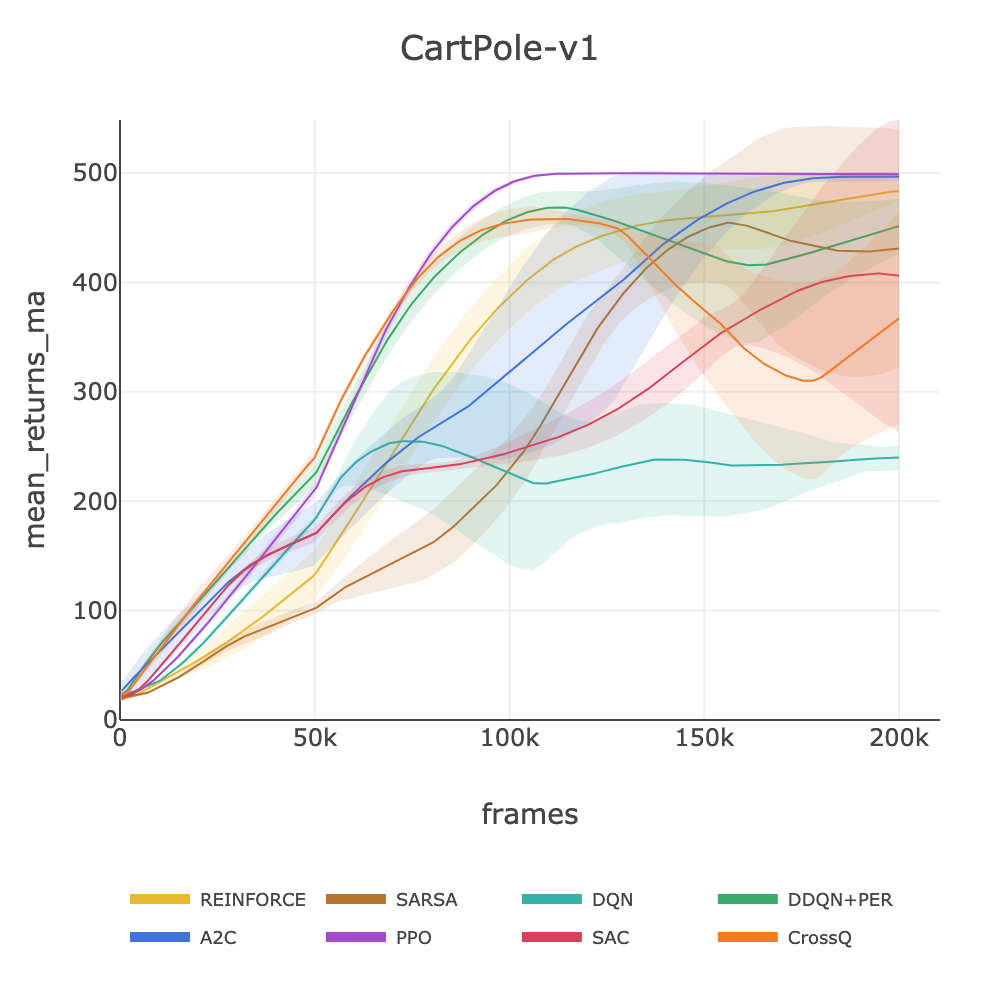
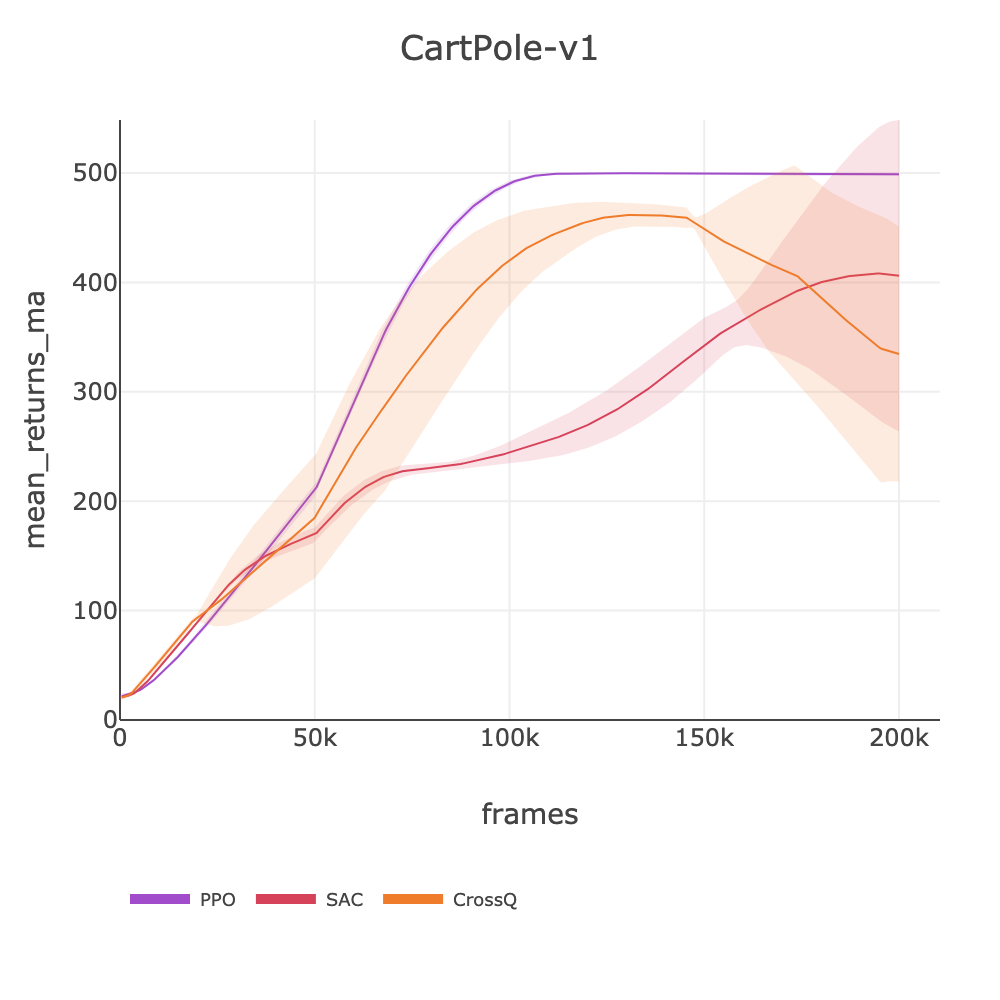
docs: update CrossQ CartPole score 405.88→324.10 from non-arc rerun (v12, iter=2)

diff --git a/docs/BENCHMARKS.md b/docs/BENCHMARKS.md
@@ -137,7 +137,7 @@ Search budget: ~3-4 trials per dimension (8 trials = 2-3 dims, 16 = 3-4 dims, 20
 | A2C | ✅ | 496.68 | [slm_lab/spec/benchmark_arc/a2c/a2c_classic_arc.yaml](../slm_lab/spec/benchmark_arc/a2c/a2c_classic_arc.yaml) | a2c_gae_cartpole_arc | [a2c_gae_cartpole_arc_2026_02_11_142531](https://huggingface.co/datasets/SLM-Lab/benchmark/tree/main/data/a2c_gae_cartpole_arc_2026_02_11_142531) |
 | PPO | ✅ | 498.94 | [slm_lab/spec/benchmark_arc/ppo/ppo_classic_arc.yaml](../slm_lab/spec/benchmark_arc/ppo/ppo_classic_arc.yaml) | ppo_cartpole_arc | [ppo_cartpole_arc_2026_02_11_144029](https://huggingface.co/datasets/SLM-Lab/benchmark/tree/main/data/ppo_cartpole_arc_2026_02_11_144029) |
 | SAC | ✅ | 406.09 | [slm_lab/spec/benchmark_arc/sac/sac_classic_arc.yaml](../slm_lab/spec/benchmark_arc/sac/sac_classic_arc.yaml) | sac_cartpole_arc | [sac_cartpole_arc_2026_02_11_144155](https://huggingface.co/datasets/SLM-Lab/benchmark/tree/main/data/sac_cartpole_arc_2026_02_11_144155) |
-| CrossQ | ✅ | 405.88 | [slm_lab/spec/benchmark/crossq/crossq_classic.yaml](../slm_lab/spec/benchmark/crossq/crossq_classic.yaml) | crossq_cartpole | [crossq_cartpole_arc_2026_02_21_100045](https://huggingface.co/datasets/SLM-Lab/benchmark/tree/main/data/crossq_cartpole_arc_2026_02_21_100045) |
+| CrossQ | ⚠ | 324.10 | [slm_lab/spec/benchmark/crossq/crossq_classic.yaml](../slm_lab/spec/benchmark/crossq/crossq_classic.yaml) | crossq_cartpole | [crossq_cartpole_2026_03_02_100434](https://huggingface.co/datasets/SLM-Lab/benchmark-dev/tree/main/data/crossq_cartpole_2026_03_02_100434) |
 
 ![CartPole-v1](plots/CartPole-v1_multi_trial_graph_mean_returns_ma_vs_frames.png)
 
